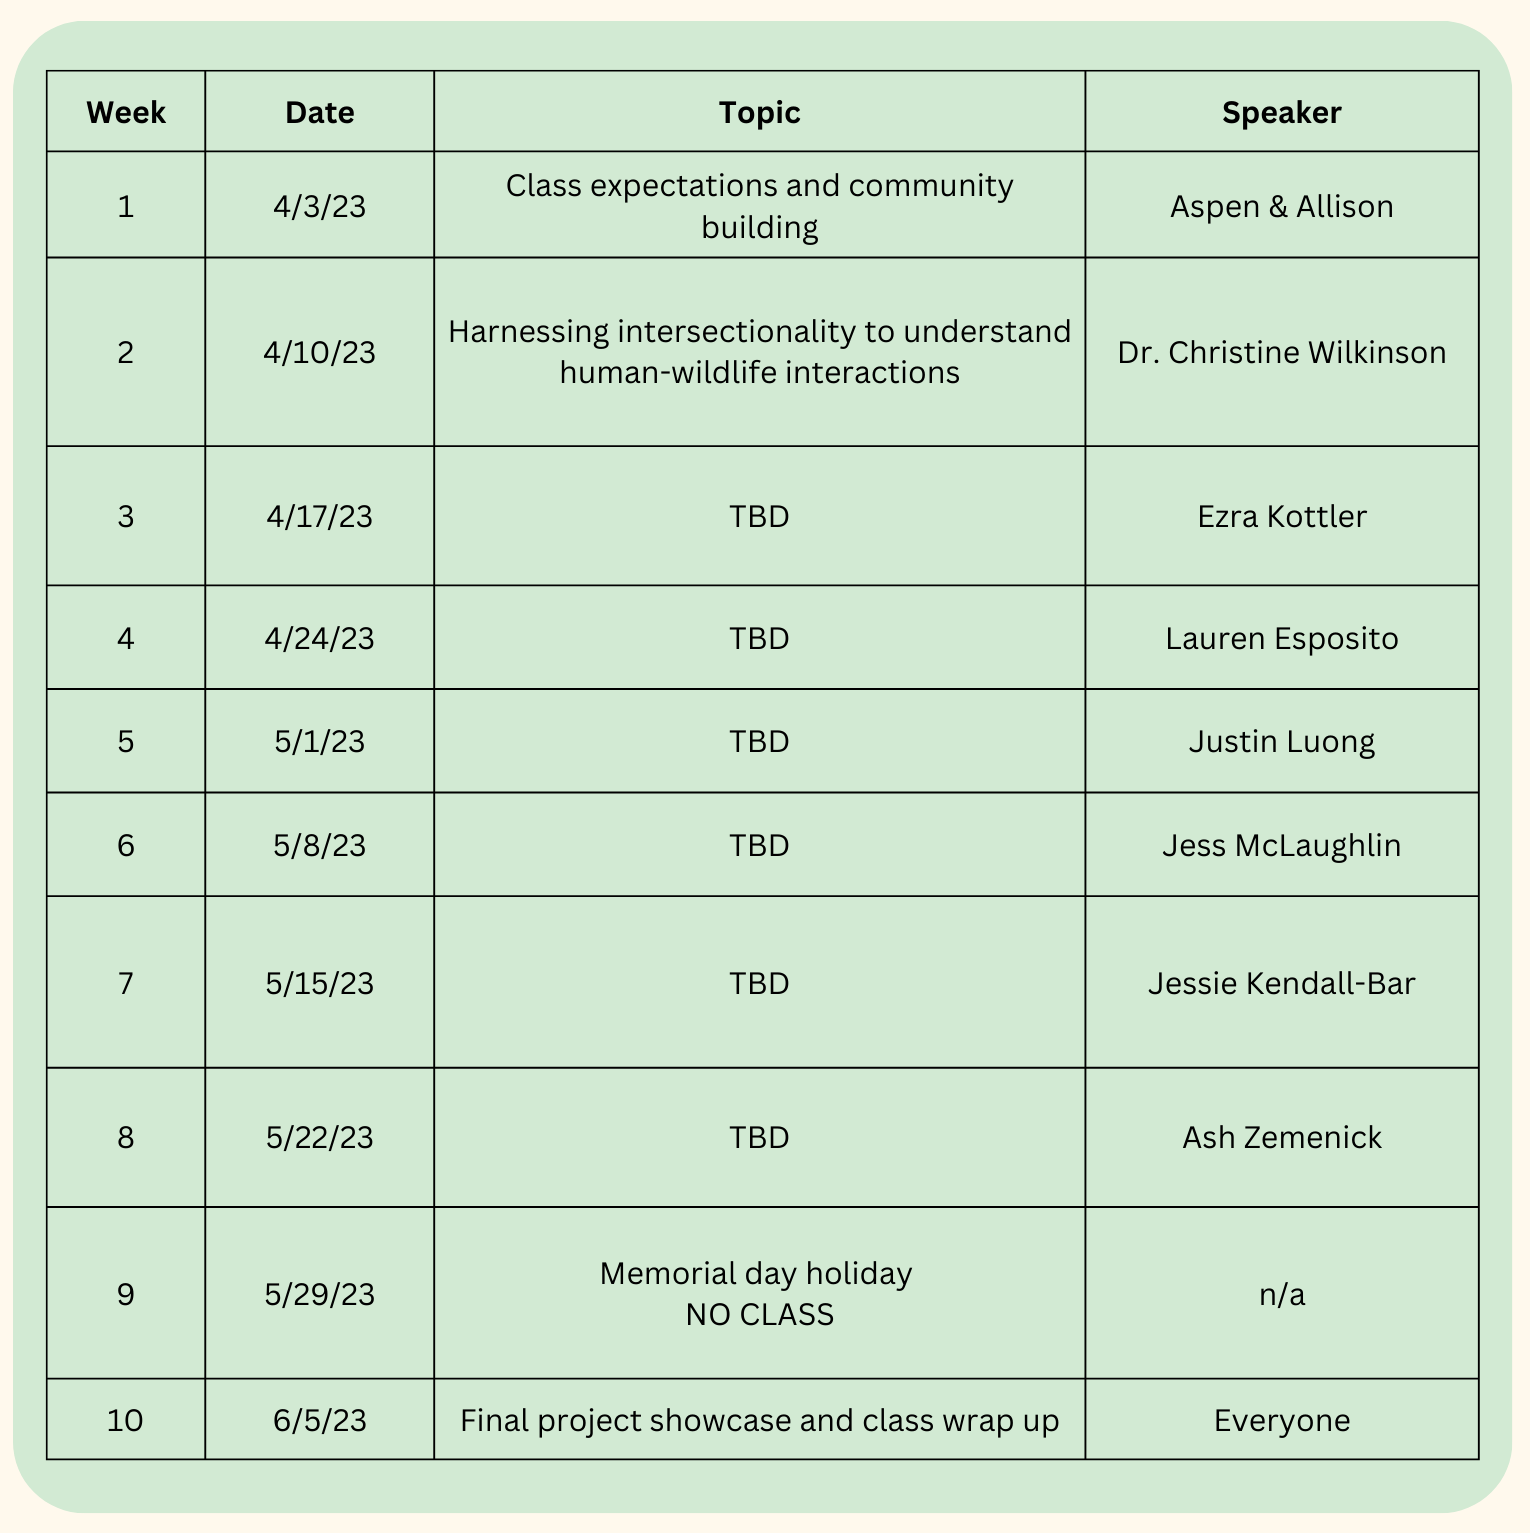
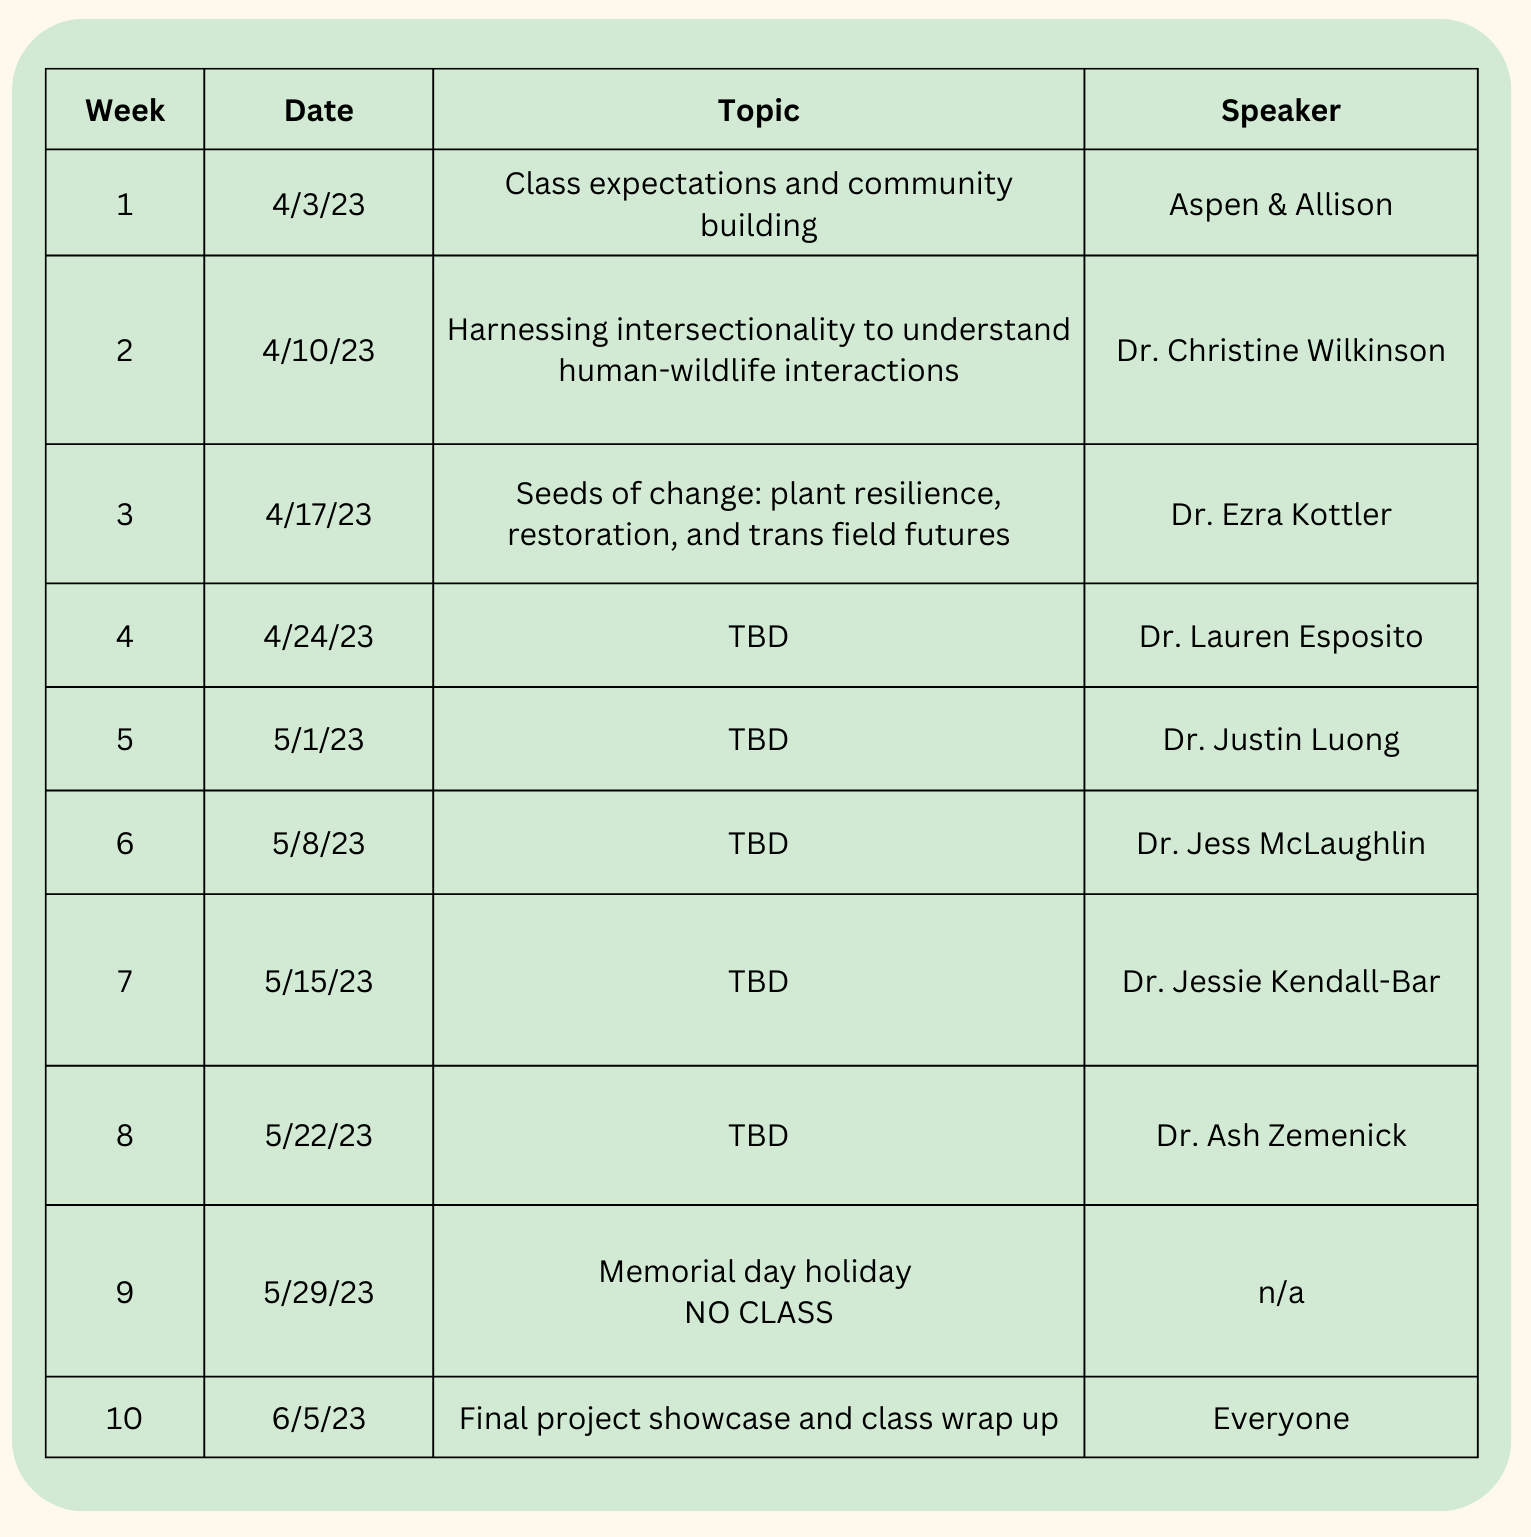
Updating week 3 speaker

diff --git a/docs/course/week3.html b/docs/course/week3.html
@@ -160,18 +160,21 @@ ul.task-list li input[type="checkbox"] {
 
 <section id="speaker-dr.-ezra-kottler" class="level2">
 <h2 class="anchored" data-anchor-id="speaker-dr.-ezra-kottler">Speaker: Dr.&nbsp;Ezra Kottler</h2>
+<p><span class="custom-subtitle">Seeds of change: plant resilience, restoration, and trans field futures</span></p>
 <div class="columns">
 <div class="column" style="width:35%;">
-<p>Ezra’s photo here</p>
+<p><img src="../img/EzraKottler.jpeg" class="img-fluid"></p>
 </div><div class="column" style="width:5%;">
 
 </div><div class="column" style="width:60%;">
-<p>Ezra’s bio goes here</p>
+<p>Dr.&nbsp;Kottler is a conservation scientist, botany enthusiast, educator, and LGBTQ+ rights advocate. Their research focuses on the ecology and evolution of wetland plants that are responding to rapid environmental shifts associated with climate change. They received their Bachelors in Biology from Vassar College in 2016, and then worked for the Conservation Land Management collecting native seeds for Post-Hurricane Sandy restoration projects in the mid-Atlantic. Following this, they earned their PhD at George Washington University for their dissertation entitled “Genotype by environment interactions of a high marsh foundation species affected by sea-level rise”. Dr.&nbsp;Kottler is now a Smith Conservation Fellow, and is conducting postdoctoral research at the University of Colorado Boulder on the restoration genomics of endangered vernal pool plants in California. In 2022, Dr.&nbsp;Kottler founded the Trans and Gender-nonconforming Fieldwork Alliance (TGFA) to build community and provide resources for fellow trans and gender-nonconforming field scientists, allies and institutions.</p>
+<p>Check out their website <a href="https://ezrakottler.wixsite.com/plantsci" class="uri">here</a>.</p>
 </div>
 </div>
 </section>
 <section id="assigned-reading" class="level2">
 <h2 class="anchored" data-anchor-id="assigned-reading">Assigned reading</h2>
+<p>“Sexual reproduction is light-limited as marsh grasses colonize maritime forest”: <a href="https://bsapubs.onlinelibrary.wiley.com/doi/10.1002/ajb2.1831" class="uri">https://bsapubs.onlinelibrary.wiley.com/doi/10.1002/ajb2.1831</a></p>
 
 
 </section>

diff --git a/docs/course/week2.html b/docs/course/week2.html
@@ -160,6 +160,7 @@ ul.task-list li input[type="checkbox"] {
 
 <section id="speaker-dr.-christine-wilkinson" class="level2">
 <h2 class="anchored" data-anchor-id="speaker-dr.-christine-wilkinson">Speaker: Dr.&nbsp;Christine Wilkinson</h2>
+<p><span class="custom-subtitle">Harnessing intersectionality to understand human-wildlife interactions</span></p>
 <div class="columns">
 <div class="column" style="width:35%;">
 <p><img src="../img/ChristineWilkinson.JPG" class="img-fluid"></p>
